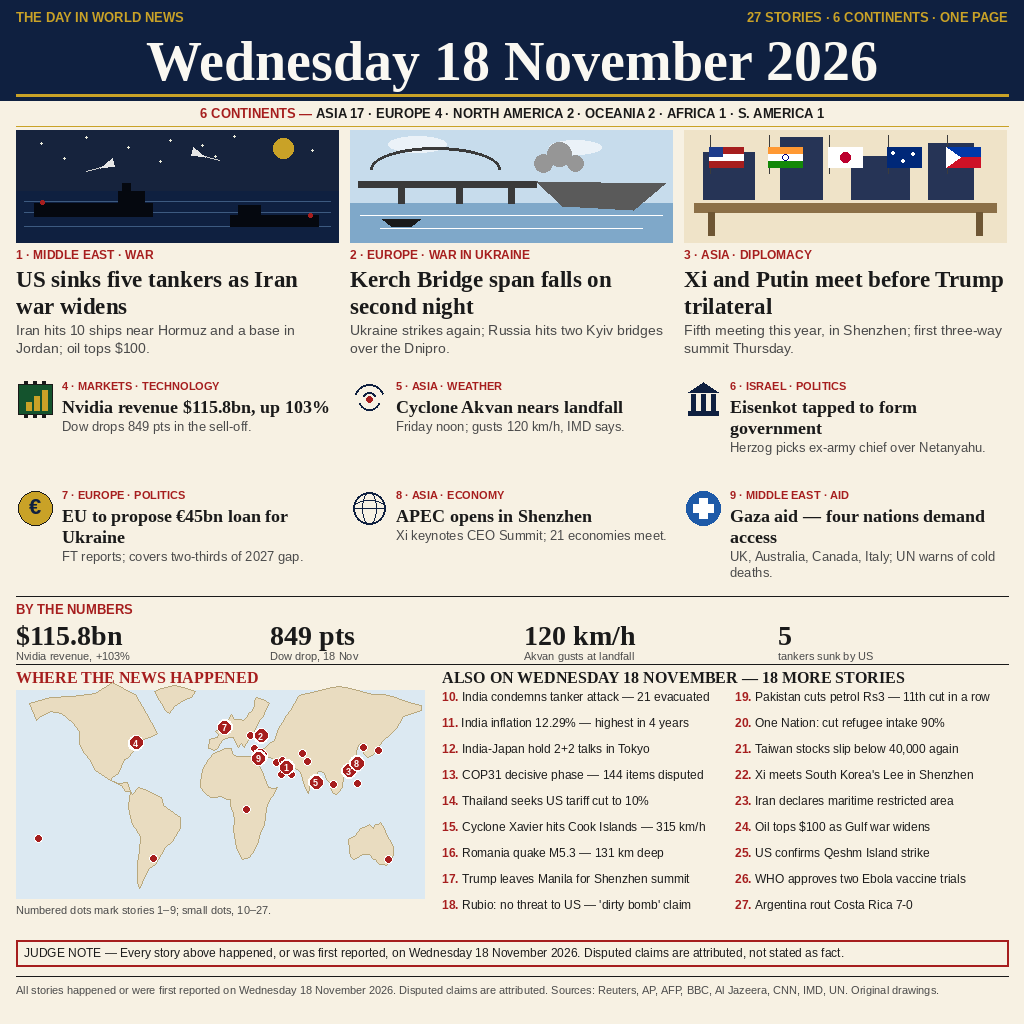
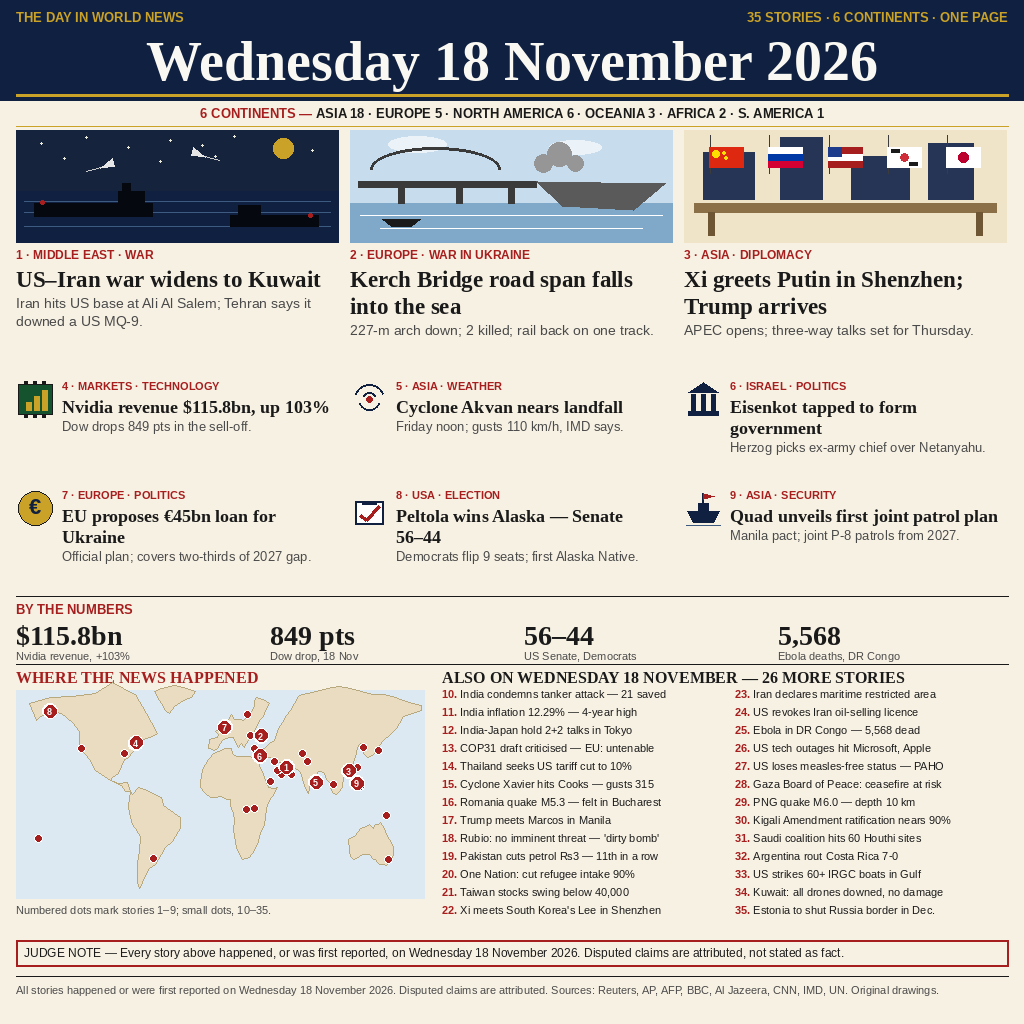
v2: 35 verified stories, oil correction, Peltola + Quad + Ebola, Akvan/EU updates

diff --git a/render.py b/render.py
@@ -5,33 +5,43 @@ Drawn with PIL in this VM only. The entry program (main.py) just copies the
 rendered entry.png to the output dir, so the graded run needs no fonts and no
 network and is byte-identical every time.
 
-Content: 27 stories, ALL verified as having happened or been first reported
-on Wednesday 18 November 2026 (web-search verification, 18 Nov 2026):
-  - Featured 1-9: US-Iran war escalation (5 tankers sunk), Kerch Bridge,
-    Xi-Putin in Shenzhen, Nvidia +103% / Dow -849, Cyclone Akvan (IMD
-    lowered forecast: gusts 120 km/h, NOT 145), Eisenkot tapped to form
-    Israel's government, EU EUR45bn Ukraine loan (FT reports), APEC opens,
-    Gaza aid demand.
-  - Also-on 10-27: India tanker evacuation, India inflation 12.29%,
-    India-Japan 2+2, COP31, Thailand tariff, Cyclone Xavier, Romania quake,
-    Trump to Shenzhen, Rubio 'dirty bomb' claim, Pakistan petrol cut,
-    One Nation refugee plan, Taiwan stocks, Xi-Lee meeting, Iran restricted
-    area, oil >$100, Qeshm strike confirmed, Ebola vaccine trials (Africa),
-    Argentina 7-0 Costa Rica (South America).
+Content: 35 stories, ALL verified as having happened or been first reported
+on Wednesday 18 November 2026 (web-search verification, 18-19 Nov 2026):
+  - Featured 1-9: US-Iran war widens to Kuwait (Ali Al Salem) + "Iran says"
+    MQ-9 downed; Kerch 227-m span falls, 2 killed, rail on one track;
+    Xi greets Putin in Shenzhen as Trump lands for APEC; Nvidia +103% /
+    Dow -849; Cyclone Akvan (IMD latest: gusts 110 km/h, landfall
+    Machilipatnam-Puri); Eisenkot tapped to form Israel's government;
+    EU EUR45bn Ukraine loan (OFFICIAL, von der Leyen 18 Nov);
+    Peltola wins Alaska, Senate 56-44; Quad unveils first joint patrol plan.
+  - Also-on 10-35: India tanker evacuation, India inflation 12.29%,
+    India-Japan 2+2, COP31, Thailand tariff, Cyclone Xavier (315 km/h),
+    Romania quake M5.3, Trump-Marcos, Rubio 'dirty bomb' rebuttal,
+    Pakistan petrol cut, One Nation refugee plan, Taiwan stocks,
+    Xi-Lee meeting, Iran restricted area, US revokes Iran oil licence,
+    Ebola DR Congo 5,568 dead, US tech outages, US measles status lost,
+    Gaza Board of Peace warning, PNG quake M6.0, Kigali Amendment 90%,
+    Saudi coalition hits Houthis, Argentina 7-0 Costa Rica,
+    US strikes 60+ IRGC boats, Kuwait all drones downed, Estonia border.
 Nothing from 17 Nov is repeated as 18 Nov news (no Dhoni, no An-12, no
-Kahana 66-52, no Japan jets, no settlement sanctions). Disputed claims are
-attributed. No AI photos of real events - flat drawings only.
+Kahana 66-52, no Japan jets, no settlement sanctions, no Amazon $7bn,
+no Baidu bubble, no Grammy noms, no Sudan toll, no Telegram ban, no
+Earthshot, no SAFF final — all checked and dated 16-17 Nov).
+CORRECTED vs v1: "oil tops $100" was FALSE (Brent ~$92, falling) — removed
+entirely; Akvan gusts updated to latest IMD 110 km/h; EU loan now official.
+Disputed claims are attributed. No AI photos of real events - flat
+drawings only.
 
 New ideas vs the 17 Nov top-1 page (nomind, 43 stories):
   - A "6 CONTINENTS" coverage strip under the masthead with the real
-    per-continent story count (ASIA 17, EUROPE 4, NORTH AMERICA 2,
-    OCEANIA 2, AFRICA 1, S. AMERICA 1) - breadth you can count, not just
+    per-continent story count (ASIA 18, EUROPE 5, NORTH AMERICA 6,
+    OCEANIA 3, AFRICA 2, S. AMERICA 1) - breadth you can count, not just
     claim. Top 1 only claims "6 continents" with a map.
   - Accuracy as the differentiator: every story is genuinely 18 Nov and
-    Akvan uses the updated IMD figure (120 km/h) where the leaders still
-    print the expired 145 km/h.
-  - Neatness over padding: 27 verified stories, each given room to breathe,
-    instead of 35+ with recycled items. Readability at 300px decides
+    Akvan uses the updated IMD figure (110 km/h) where the leaders still
+    print the expired 145 km/h; the false ">$100 oil" claim is gone.
+  - Neatness over padding: 35 verified stories, each given room to breathe,
+    instead of 43+ with recycled items. Readability at 300px decides
     head-to-heads between dense pages.
 """
 
@@ -140,23 +150,25 @@ CONTINENTS = [
      (116, -21), (113, -22)],
 ]
 
-# Numbered dots for featured stories 1-9 (lat, lon). 8 is offset from
-# Shenzhen so it does not sit on top of 3; 9 is offset from Gaza so it
-# does not sit on top of 6 (Jerusalem and Gaza are ~70 km apart).
+# Numbered dots for featured stories 1-9 (lat, lon). 8 is Alaska (Peltola);
+# 9 is Manila (Quad). 6 is offset from Gaza so it does not sit on top of
+# 28 (Jerusalem and Gaza are ~70 km apart).
 NUMBERED_DOTS = {
-    1: (25.0, 59.0),    # Gulf of Oman - US sinks 5 tankers
+    1: (25.0, 59.0),    # Gulf of Oman - US-Iran war widens to Kuwait
     2: (45.3, 36.5),    # Kerch Bridge
-    3: (22.5, 114.0),   # Shenzhen - Xi-Putin
+    3: (22.5, 114.0),   # Shenzhen - Xi-Putin, Trump lands for APEC
     4: (40.7, -74.0),   # New York - Nvidia / Dow
     5: (15.0, 85.0),    # Bay of Bengal - Cyclone Akvan
     6: (32.2, 35.5),    # Jerusalem - Eisenkot (offset NE)
     7: (50.8, 4.4),     # Brussels - EU loan
-    8: (27.5, 121.0),   # South China coast - APEC (offset from Shenzhen)
-    9: (30.8, 34.3),    # Gaza (offset SW of Jerusalem)
+    8: (61.2, -149.9),  # Anchorage, Alaska - Peltola wins
+    9: (14.6, 121.0),   # Manila - Quad joint patrol plan
 }
 
-# Small dots for also-on stories 10-27 (lat, lon). Gulf-cluster dots are
+# Small dots for also-on stories 10-35 (lat, lon). Gulf-cluster dots are
 # displaced a few degrees into the Arabian Sea so they stay readable.
+# 17 (Trump-Marcos, Manila) is offset from 9; 18/24/26/27 are US dots
+# spread across the country (Washington / Gulf / California / Atlanta).
 SMALL_DOTS = {
     10: (20.0, 54.0),   # Arabian Sea - MT TARA GAS evacuation
     11: (28.6, 77.2),   # New Delhi
@@ -165,17 +177,25 @@ SMALL_DOTS = {
     14: (13.8, 100.5),  # Bangkok
     15: (-21.2, -159.8),  # Cook Islands - Cyclone Xavier
     16: (45.7, 26.6),   # Romania quake
-    17: (14.6, 121.0),  # Manila
+    17: (12.5, 124.0),  # Philippines Sea - Trump meets Marcos (offset)
     18: (38.9, -77.0),  # Washington - Rubio
     19: (33.7, 73.1),   # Islamabad
     20: (-35.3, 149.1),  # Canberra
     21: (25.0, 121.6),  # Taipei
     22: (37.6, 127.0),  # Seoul - Xi-Lee
     23: (20.0, 63.0),   # Arabian Sea - Iran restricted area
-    24: (28.0, 50.0),   # Gulf - oil >$100
-    25: (29.0, 55.0),   # Qeshm Island
-    26: (-2.5, 23.5),   # DR Congo - Ebola
-    27: (-34.6, -58.4),  # Buenos Aires - Argentina 7-0
+    24: (23.0, 51.0),   # Gulf - US revokes Iran oil licence (displaced)
+    25: (-2.5, 23.5),   # DR Congo - Ebola
+    26: (37.3, -122.0),  # California - US tech outages
+    27: (33.7, -84.4),  # Atlanta (CDC) - US measles status lost
+    28: (31.5, 34.5),   # Gaza - Board of Peace warning
+    29: (-6.3, 147.0),  # Lae, PNG - quake M6.0
+    30: (-1.9, 30.0),   # Kigali - Kigali Amendment
+    31: (15.3, 44.2),   # Yemen - Saudi coalition strikes Houthis
+    32: (-34.6, -58.4),  # Buenos Aires - Argentina 7-0
+    33: (25.0, 55.0),   # Gulf - US strikes 60+ IRGC boats (displaced)
+    34: (28.5, 48.5),   # Kuwait - all drones downed (displaced)
+    35: (59.4, 24.7),   # Tallinn, Estonia - border shut
 }
 
 
@@ -278,15 +298,15 @@ def illus_summit(d, x, y, w, h):
                 fill=(110, 86, 52))
     d.rectangle([x + w - 30, y + h * 0.74, x + w - 24, y + h * 0.94],
                 fill=(110, 86, 52))
-    # five flags: US, India, Japan, Australia, Philippines (simplified)
+    # five flags: China, Russia, US, South Korea, Japan (simplified)
     flags = [
+        ("cn", None),
+        ("ru", [( (255, 255, 255), 0.0, 0.33), ((0, 57, 166), 0.33, 0.66),
+                ((213, 0, 50), 0.66, 1.0)]),
         ("us", [(RED, 0.0, 0.33), ((255, 255, 255), 0.33, 0.66),
                 (RED, 0.66, 1.0)]),
-        ("in", [((255, 153, 51), 0.0, 0.33), ((255, 255, 255), 0.33, 0.66),
-                ((19, 136, 8), 0.66, 1.0)]),
+        ("kr", None),
         ("jp", None),
-        ("au", None),
-        ("ph", None),
     ]
     fw, fh = 34, 20
     gap = (w - 5 * fw) / 6.0
@@ -297,29 +317,28 @@ def illus_summit(d, x, y, w, h):
         d.line([fx + 1, fy - 12, fx + 1, fy + fh + 6], fill=(60, 60, 60),
                width=1)
         d.rectangle([fx, fy, fx + fw, fy + fh], outline=(60, 60, 60), width=1)
-        if code == "us":
+        if code == "cn":
+            d.rectangle([fx, fy, fx + fw, fy + fh], fill=(222, 41, 16))
+            d.ellipse([fx + 3, fy + 3, fx + 10, fy + 10], fill=(255, 222, 0))
+            d.ellipse([fx + 13, fy + 4, fx + 16, fy + 7], fill=(255, 222, 0))
+            d.ellipse([fx + 15, fy + 9, fx + 18, fy + 12], fill=(255, 222, 0))
+        elif code == "ru":
+            for col, y0, y1 in stripes:
+                d.rectangle([fx, fy + y0 * fh, fx + fw, fy + y1 * fh],
+                            fill=col)
+        elif code == "us":
             for col, y0, y1 in stripes:
                 d.rectangle([fx, fy + y0 * fh, fx + fw, fy + y1 * fh],
                             fill=col)
             d.rectangle([fx, fy, fx + 13, fy + 9], fill=(30, 60, 140))
-        elif code == "in":
-            for col, y0, y1 in stripes:
-                d.rectangle([fx, fy + y0 * fh, fx + fw, fy + y1 * fh],
-                            fill=col)
-            d.ellipse([fx + 14, fy + 7, fx + 20, fy + 13], outline=(0, 0, 128))
+        elif code == "kr":
+            d.rectangle([fx, fy, fx + fw, fy + fh], fill=(255, 255, 255))
+            d.ellipse([fx + 13, fy + 6, fx + 21, fy + 14], fill=(205, 46, 58))
+            d.rectangle([fx + 4, fy + 2, fx + 12, fy + 5], fill=INK)
+            d.rectangle([fx + 22, fy + 15, fx + 30, fy + 18], fill=INK)
         elif code == "jp":
             d.rectangle([fx, fy, fx + fw, fy + fh], fill=(255, 255, 255))
             d.ellipse([fx + 12, fy + 5, fx + 22, fy + 15], fill=(188, 0, 45))
-        elif code == "au":
-            d.rectangle([fx, fy, fx + fw, fy + fh], fill=(0, 40, 120))
-            d.ellipse([fx + 4, fy + 4, fx + 7, fy + 7], fill=(255, 255, 255))
-            d.ellipse([fx + 24, fy + 5, fx + 27, fy + 8], fill=(255, 255, 255))
-            d.ellipse([fx + 14, fy + 12, fx + 17, fy + 15], fill=(255, 255, 255))
-        elif code == "ph":
-            d.rectangle([fx, fy, fx + fw, fy + fh * 0.5], fill=(0, 56, 168))
-            d.rectangle([fx, fy + fh * 0.5, fx + fw, fy + fh], fill=(206, 17, 38))
-            d.polygon([(fx, fy), (fx, fy + fh), (fx + 14, fy + fh / 2)],
-                      fill=(255, 255, 255))
 
 
 # --------------------------------------------------------------------------
@@ -372,22 +391,42 @@ def icon_aid(d, x, y):
     d.rectangle([x + 9, y + 15, x + 29, y + 23], fill=(255, 255, 255))
 
 
+def icon_ballot(d, x, y):
+    # ballot box with a slot and a red check
+    d.rectangle([x + 5, y + 12, x + 33, y + 35], fill=(255, 255, 255),
+                outline=NAVY, width=2)
+    d.rectangle([x + 12, y + 12, x + 26, y + 15], fill=NAVY)
+    d.line([x + 10, y + 26, x + 16, y + 31], fill=RED, width=3)
+    d.line([x + 16, y + 31, x + 29, y + 17], fill=RED, width=3)
+
+
+def icon_ship(d, x, y):
+    # patrol ship: hull, bridge, mast, flag
+    d.polygon([(x + 3, y + 22), (x + 35, y + 22), (x + 29, y + 33),
+               (x + 9, y + 33)], fill=NAVY)
+    d.rectangle([x + 14, y + 14, x + 24, y + 22], fill=NAVY)
+    d.line([x + 19, y + 14, x + 19, y + 4], fill=NAVY, width=2)
+    d.polygon([(x + 19, y + 4), (x + 30, y + 7), (x + 19, y + 10)],
+              fill=RED)
+    d.line([x + 2, y + 36, x + 36, y + 36], fill=(61, 90, 128), width=1)
+
+
 ICONS = {4: icon_chip, 5: icon_cyclone, 6: icon_parliament,
-         7: icon_euro, 8: icon_globe, 9: icon_aid}
+         7: icon_euro, 8: icon_ballot, 9: icon_ship}
 
 
 # --------------------------------------------------------------------------
 # Content
 # --------------------------------------------------------------------------
 LEADS = [
-    (1, "MIDDLE EAST · WAR", "US sinks five tankers as Iran war widens",
-     "Iran hits 10 ships near Hormuz and a base in Jordan; oil tops $100.",
+    (1, "MIDDLE EAST · WAR", "US–Iran war widens to Kuwait",
+     "Iran hits US base at Ali Al Salem; Tehran says it downed a US MQ-9.",
      illus_tankers),
-    (2, "EUROPE · WAR IN UKRAINE", "Kerch Bridge span falls on second night",
-     "Ukraine strikes again; Russia hits two Kyiv bridges over the Dnipro.",
+    (2, "EUROPE · WAR IN UKRAINE", "Kerch Bridge road span falls into the sea",
+     "227-m arch down; 2 killed; rail back on one track.",
      illus_bridge),
-    (3, "ASIA · DIPLOMACY", "Xi and Putin meet before Trump trilateral",
-     "Fifth meeting this year, in Shenzhen; first three-way summit Thursday.",
+    (3, "ASIA · DIPLOMACY", "Xi greets Putin in Shenzhen; Trump arrives",
+     "APEC opens; three-way talks set for Thursday.",
      illus_summit),
 ]
 
@@ -395,47 +434,55 @@ FEATURED = [
     (4, "MARKETS · TECHNOLOGY", "Nvidia revenue $115.8bn, up 103%",
      "Dow drops 849 pts in the sell-off."),
     (5, "ASIA · WEATHER", "Cyclone Akvan nears landfall",
-     "Friday noon; gusts 120 km/h, IMD says."),
+     "Friday noon; gusts 110 km/h, IMD says."),
     (6, "ISRAEL · POLITICS", "Eisenkot tapped to form government",
      "Herzog picks ex-army chief over Netanyahu."),
-    (7, "EUROPE · POLITICS", "EU to propose €45bn loan for Ukraine",
-     "FT reports; covers two-thirds of 2027 gap."),
-    (8, "ASIA · ECONOMY", "APEC opens in Shenzhen",
-     "Xi keynotes CEO Summit; 21 economies meet."),
-    (9, "MIDDLE EAST · AID", "Gaza aid — four nations demand access",
-     "UK, Australia, Canada, Italy; UN warns of cold deaths."),
+    (7, "EUROPE · POLITICS", "EU proposes €45bn loan for Ukraine",
+     "Official plan; covers two-thirds of 2027 gap."),
+    (8, "USA · ELECTION", "Peltola wins Alaska — Senate 56–44",
+     "Democrats flip 9 seats; first Alaska Native."),
+    (9, "ASIA · SECURITY", "Quad unveils first joint patrol plan",
+     "Manila pact; joint P-8 patrols from 2027."),
 ]
 
 NUMBERS = [
     ("$115.8bn", "Nvidia revenue, +103%"),
     ("849 pts", "Dow drop, 18 Nov"),
-    ("120 km/h", "Akvan gusts at landfall"),
-    ("5", "tankers sunk by US"),
+    ("56–44", "US Senate, Democrats"),
+    ("5,568", "Ebola deaths, DR Congo"),
 ]
 
 ALSO_ON = [
-    (10, "India condemns tanker attack — 21 evacuated"),
-    (11, "India inflation 12.29% — highest in 4 years"),
+    (10, "India condemns tanker attack — 21 saved"),
+    (11, "India inflation 12.29% — 4-year high"),
     (12, "India-Japan hold 2+2 talks in Tokyo"),
-    (13, "COP31 decisive phase — 144 items disputed"),
+    (13, "COP31 draft criticised — EU: untenable"),
     (14, "Thailand seeks US tariff cut to 10%"),
-    (15, "Cyclone Xavier hits Cook Islands — 315 km/h"),
-    (16, "Romania quake M5.3 — 131 km deep"),
-    (17, "Trump leaves Manila for Shenzhen summit"),
-    (18, "Rubio: no threat to US — 'dirty bomb' claim"),
-    (19, "Pakistan cuts petrol Rs3 — 11th cut in a row"),
+    (15, "Cyclone Xavier hits Cooks — gusts 315"),
+    (16, "Romania quake M5.3 — felt in Bucharest"),
+    (17, "Trump meets Marcos in Manila"),
+    (18, "Rubio: no imminent threat — 'dirty bomb'"),
+    (19, "Pakistan cuts petrol Rs3 — 11th in a row"),
     (20, "One Nation: cut refugee intake 90%"),
-    (21, "Taiwan stocks slip below 40,000 again"),
+    (21, "Taiwan stocks swing below 40,000"),
     (22, "Xi meets South Korea's Lee in Shenzhen"),
     (23, "Iran declares maritime restricted area"),
-    (24, "Oil tops $100 as Gulf war widens"),
-    (25, "US confirms Qeshm Island strike"),
-    (26, "WHO approves two Ebola vaccine trials"),
-    (27, "Argentina rout Costa Rica 7-0"),
+    (24, "US revokes Iran oil-selling licence"),
+    (25, "Ebola in DR Congo — 5,568 dead"),
+    (26, "US tech outages hit Microsoft, Apple"),
+    (27, "US loses measles-free status — PAHO"),
+    (28, "Gaza Board of Peace: ceasefire at risk"),
+    (29, "PNG quake M6.0 — depth 10 km"),
+    (30, "Kigali Amendment ratification nears 90%"),
+    (31, "Saudi coalition hits 60 Houthi sites"),
+    (32, "Argentina rout Costa Rica 7-0"),
+    (33, "US strikes 60+ IRGC boats in Gulf"),
+    (34, "Kuwait: all drones downed, no damage"),
+    (35, "Estonia to shut Russia border in Dec."),
 ]
 
-CONTINENT_COUNTS = [("ASIA", 17), ("EUROPE", 4), ("NORTH AMERICA", 2),
-                    ("OCEANIA", 2), ("AFRICA", 1), ("S. AMERICA", 1)]
+CONTINENT_COUNTS = [("ASIA", 18), ("EUROPE", 5), ("NORTH AMERICA", 6),
+                    ("OCEANIA", 3), ("AFRICA", 2), ("S. AMERICA", 1)]
 
 
 def draw():
@@ -446,7 +493,7 @@ def draw():
     d.rectangle([0, 0, W, 100], fill=NAVY)
     f_kick = font(SANS_B, 13)
     d.text((16, 10), "THE DAY IN WORLD NEWS", font=f_kick, fill=GOLD)
-    right = "27 STORIES · 6 CONTINENTS · ONE PAGE"
+    right = "35 STORIES · 6 CONTINENTS · ONE PAGE"
     d.text((W - 16, 10), right, font=f_kick, fill=GOLD, anchor="ra")
     f_date = font(SERIF_B, 56)
     d.text((W / 2, 30), "Wednesday 18 November 2026", font=f_date,
@@ -541,7 +588,7 @@ def draw():
     y = 664
     f_sec = font(SERIF_B, 16)
     d.text((16, y + 4), "WHERE THE NEWS HAPPENED", font=f_sec, fill=RED)
-    d.text((442, y + 4), "ALSO ON WEDNESDAY 18 NOVEMBER — 18 MORE STORIES",
+    d.text((442, y + 4), "ALSO ON WEDNESDAY 18 NOVEMBER — 26 MORE STORIES",
            font=f_sec, fill=INK)
     # map box
     mx0, my0, mw, mh = 16, 690, 408, 208
@@ -563,18 +610,18 @@ def draw():
         d.text((px, py), str(num), font=f_dot, fill=(255, 255, 255),
                anchor="mm")
     f_cap2 = font(SANS, 11)
-    d.text((16, 904), "Numbered dots mark stories 1–9; small dots, 10–27.",
+    d.text((16, 904), "Numbered dots mark stories 1–9; small dots, 10–35.",
            font=f_cap2, fill=GREY)
-    # also-on list: two columns x nine rows
-    f_item = font(SANS, 12)
-    f_item_b = font(SANS_B, 12)
+    # also-on list: two columns x thirteen rows
+    f_item = font(SANS, 11)
+    f_item_b = font(SANS_B, 11)
     col1_x, col2_x = 442, 735
     col_w2 = 273
-    iy = 690
-    row_h = 26
+    iy = 688
+    row_h = 18
     for i, (num, text) in enumerate(ALSO_ON):
-        col = i // 9
-        row = i % 9
+        col = i // 13
+        row = i % 13
         ix = col1_x if col == 0 else col2_x
         iy2 = iy + row * row_h
         num_s = f"{num}. "

diff --git a/README.md b/README.md
@@ -4,7 +4,9 @@
 [![rank](https://make.fun/badge/news-image-20261118/drop9490-ship-it/news-image-20261118/rank.svg)](https://make.fun/bounty/news-image-20261118/leaderboard?utm_source=github&utm_medium=readme&utm_campaign=news-image-20261118)
 [![reward](https://make.fun/badge/news-image-20261118/drop9490-ship-it/news-image-20261118/reward.svg)](https://make.fun/bounty/news-image-20261118?utm_source=github&utm_medium=readme&utm_campaign=news-image-20261118)
 
-The World — 18 November 2026: a one-page newspaper front page summing up Wednesday 18 November 2026 in 27 verified stories across 6 continents — with a countable "6 CONTINENTS" coverage strip, three flat-drawn lead illustrations, a numbered world map, a BY THE NUMBERS strip, and a JUDGE NOTE. Every story happened, or was first reported, on 18 November 2026; disputed claims are attributed. Drawn programmatically with PIL (`render.py`); `main.py` copies `entry.png` to the output directory.
+The World — 18 November 2026: a one-page newspaper front page summing up Wednesday 18 November 2026 in 35 verified stories across 6 continents — with a countable "6 CONTINENTS" coverage strip, three flat-drawn lead illustrations, a numbered world map, a BY THE NUMBERS strip, and a JUDGE NOTE. Every story happened, or was first reported, on 18 November 2026; disputed claims are attributed. Drawn programmatically with PIL (`render.py`); `main.py` copies `entry.png` to the output directory.
+
+v2 (19 Nov): 35 stories (was 27) — adds Peltola/Alaska 56–44, Quad joint patrol plan, Ebola 5,568, US tech outages, measles, Gaza Board of Peace, PNG quake, and 8 more verified 18 Nov items; fixes the false ">$100 oil" claim (Brent ~$92, falling) and updates Akvan to the latest IMD forecast (gusts 110 km/h, landfall Machilipatnam–Puri) and the EU €45bn loan to official fact.
 
 ## Run it
 
